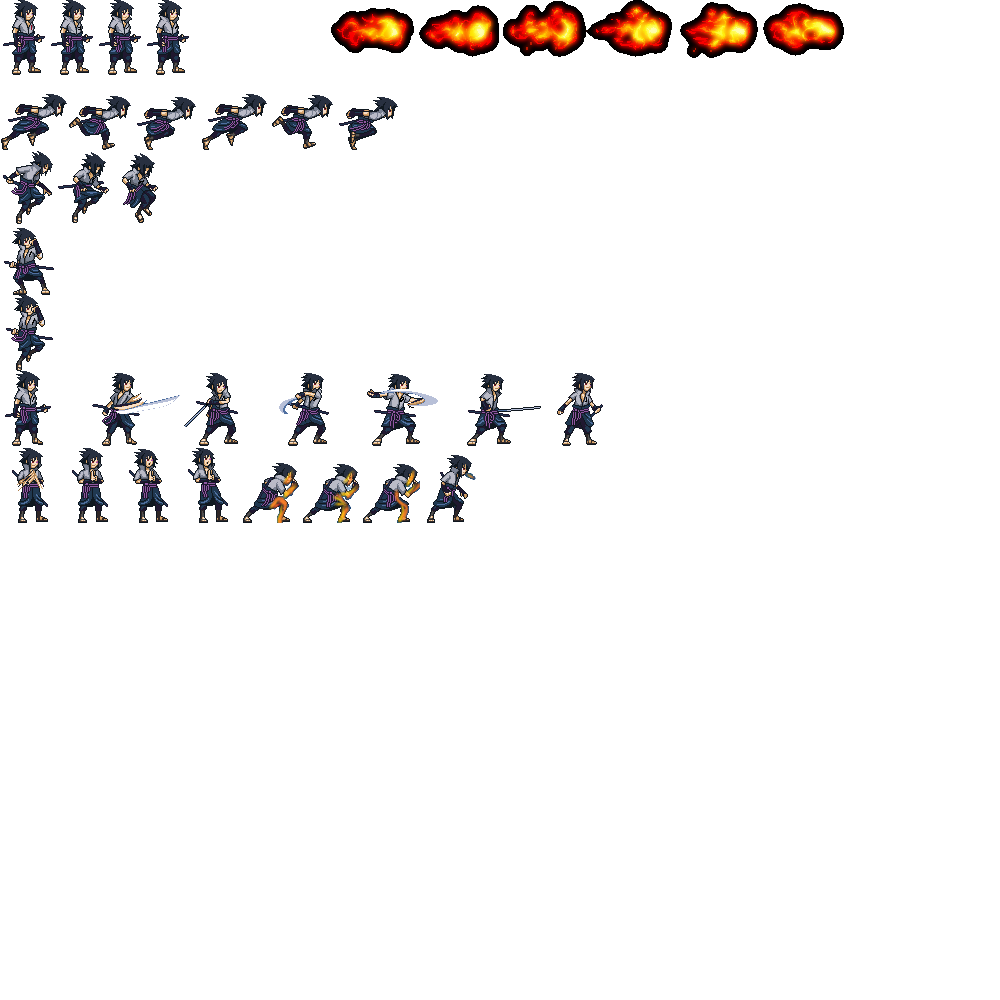
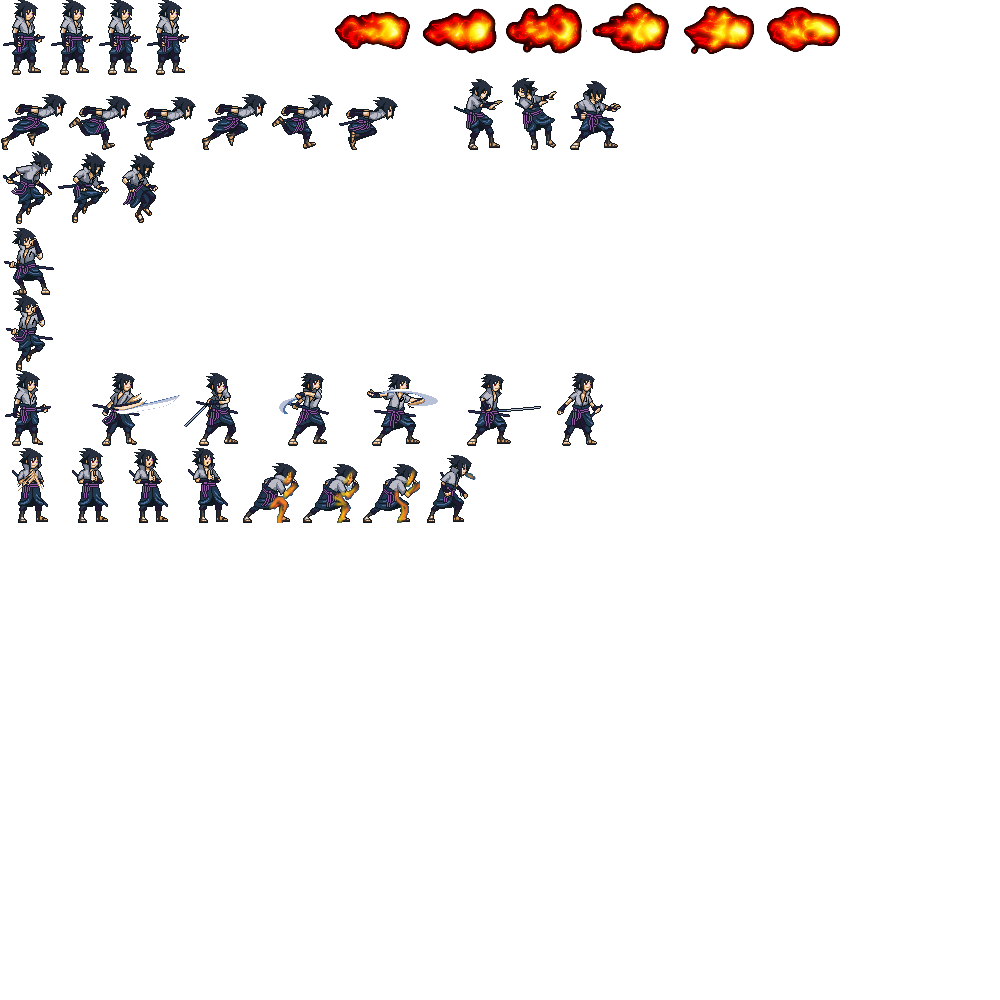
thêm hiệu ứng và điều chỉnh đọc ảnh

Changed region(s): [[0.341, 0.0, 0.837, 0.155]]

diff --git a/include/ECS/AnimationComponent.h b/include/ECS/AnimationComponent.h
@@ -29,6 +29,7 @@ public:
 	}
 	void update() override
 	{
+		// cập nhật theo trạng thái
 		animInfor = GAMECHARACTERS.at(sprite->ID).at(state);
 
 		if (sprite->isAnimated())
@@ -37,6 +38,7 @@ public:
 			if (now - lastUpdate > speed) {
 				currentFrame++;
 				lastUpdate = now;
+				sprite->addSrcX(transform->width);
 
 				if (currentFrame >= frames) {
 					if (state != "run")
@@ -48,6 +50,7 @@ public:
 					else
 					{
 						currentFrame = 0;	// nếu đang chạy -> chạy tiếp
+						sprite->setSrcX(animInfor[2]);
 					}
 					animFinished = true;
 					entity->attrib.isHitting = false;
@@ -60,7 +63,7 @@ public:
 		transform->high = animInfor[5];
 
 		// cho dịch khung hình
-		sprite->setSrcX(transform->width * currentFrame);
+		//sprite->setSrcX(transform->width * currentFrame);
 		sprite->setSrcY(animInfor[3]);
 	}
 
@@ -70,6 +73,8 @@ public:
 		animInfor = GAMECHARACTERS.at(sprite->ID).at(state);
 		frames = animInfor[0];
 		speed = animInfor[1];
+		sprite->setSrcX(animInfor[2]);
+		sprite->setSrcY(animInfor[3]);
 		sprite->setSrcW(animInfor[4]);
 		sprite->setSrcH(animInfor[5]);
 		entity->attrib.isHitting = (bool)animInfor[6];

diff --git a/include/Const.h b/include/Const.h
@@ -58,8 +58,9 @@ const std::unordered_map<int, const std::map<const char*, std::vector<int>>> GAM
 		{ "guard", {1, 1, 0, 224, 58, 71, 0, 0}},
 		{"airguard", {1, 1, 0, 296, 58, 74, 0, 0}},
 		{"attackcb", {7, 180, 0, 371, 91, 75, 1, 20}},
-		{"skill1", {8, 100, 0, 446, 60, 77, 0, 0}}, 
-		{"eff1", {7, 140, 242, 0, 86, 57, 1, 35}}}},
+		{"skill1", {8, 100, 0, 446, 60, 77, 0, 0}},
+		{"eff1", {7, 140, 242, 0, 86, 57, 1, 35}},
+		{"takedam" ,{3, 250, 450, 77, 57, 73, 0, 0}}}},
 	{ 2, {{"idle", {6, 150, 0, 0, 46, 80, 0, 0}},
 		{"attackcb", {9, 110, 0, 80, 88, 86, 1, 20}},
 		{"run", {8, 150, 0, 166, 58, 77, 0, 0}},

diff --git a/include/ECS/KeyboardController.h b/include/ECS/KeyboardController.h
@@ -47,7 +47,7 @@ public:
 					break;
 				case SDLK_u:
 					transform->velocity.x = 0;
-					animations->use("attackcb");
+					animations->use("takedam");
 					animations->animFinished = false;
 					break;
 				case SDLK_r:

diff --git a/include/ECS/SpriteComponent.h b/include/ECS/SpriteComponent.h
@@ -115,4 +115,9 @@ public:
 	{
 		srcRect.y = y;
 	}
+	// tăng src.x, chạy hoạt hình 
+	void addSrcX(int n)
+	{
+		srcRect.x += n;
+	}
 };
